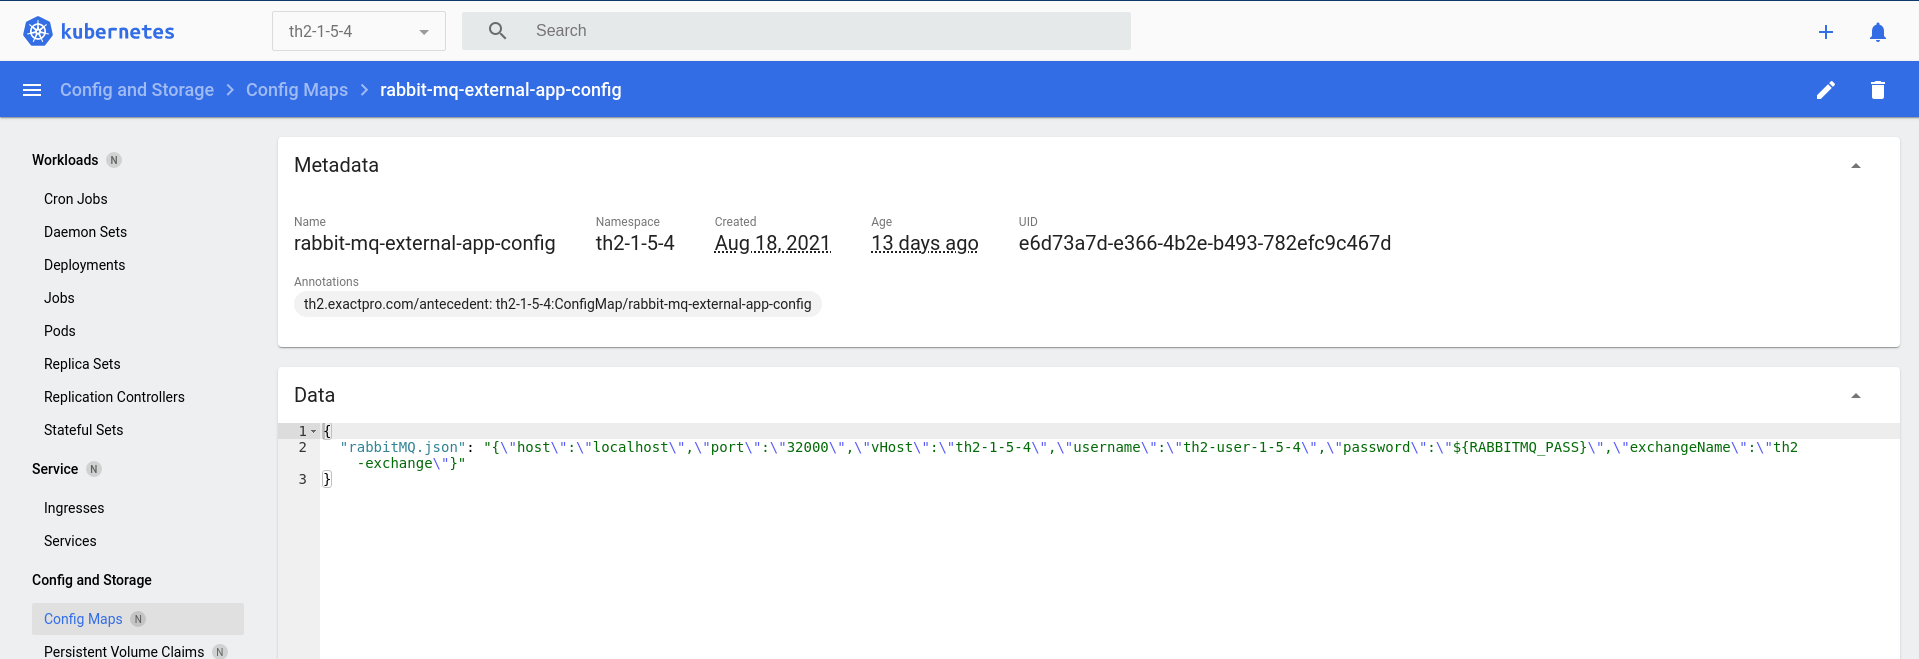
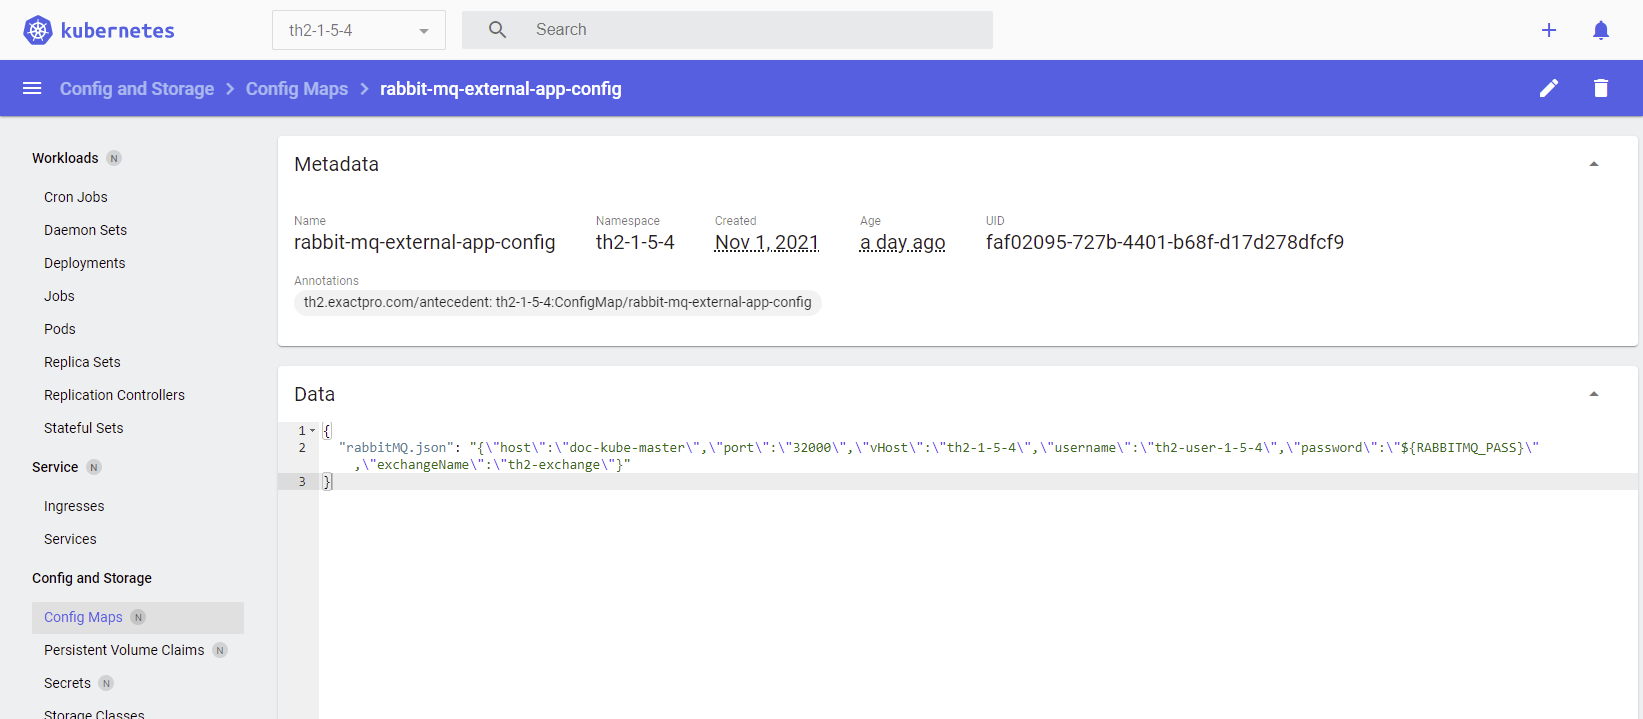
[TD-24] New screenshot in Get and run demo script

diff --git a/content/getting-started/install-demo/demo-script/_index.md b/content/getting-started/install-demo/demo-script/_index.md
@@ -219,11 +219,16 @@ Kubernetes Dashboard / Config Maps / rabbit-mq-external-app-config
   "host": "10.44.16.110",
   "vHost": "th2-1-5-4",
   "port": "32000",
-  "username": "th2",
-  "password": "password",
+  "username": "th2-1-5-4",
+  "password": "${RABBITMQ_PASS}",
   "exchangeName": "th2-exchange"
 }
 ```
+
+{{% notice note %}}
+If this configuration doesn't work, try to change `username` 
+and `password` values like in `secrets.yaml`.
+{{% /notice %}}
 
 ## 5. Run demo script
 
